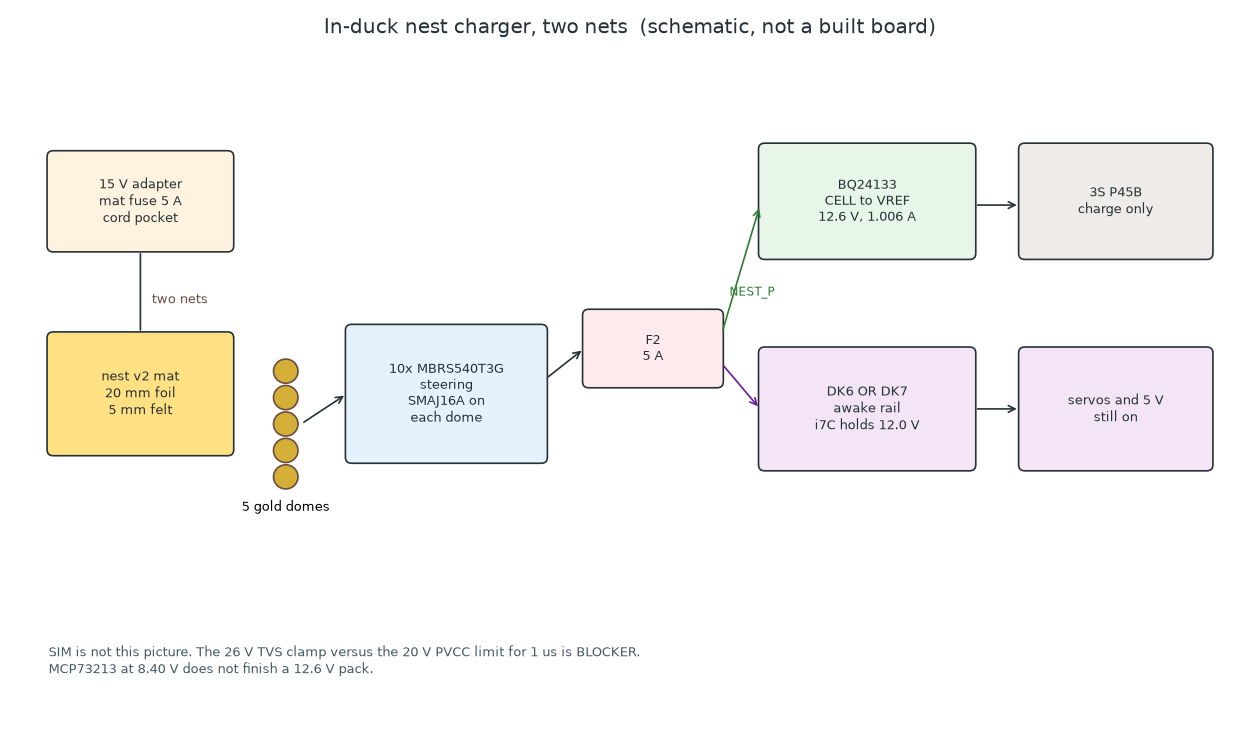
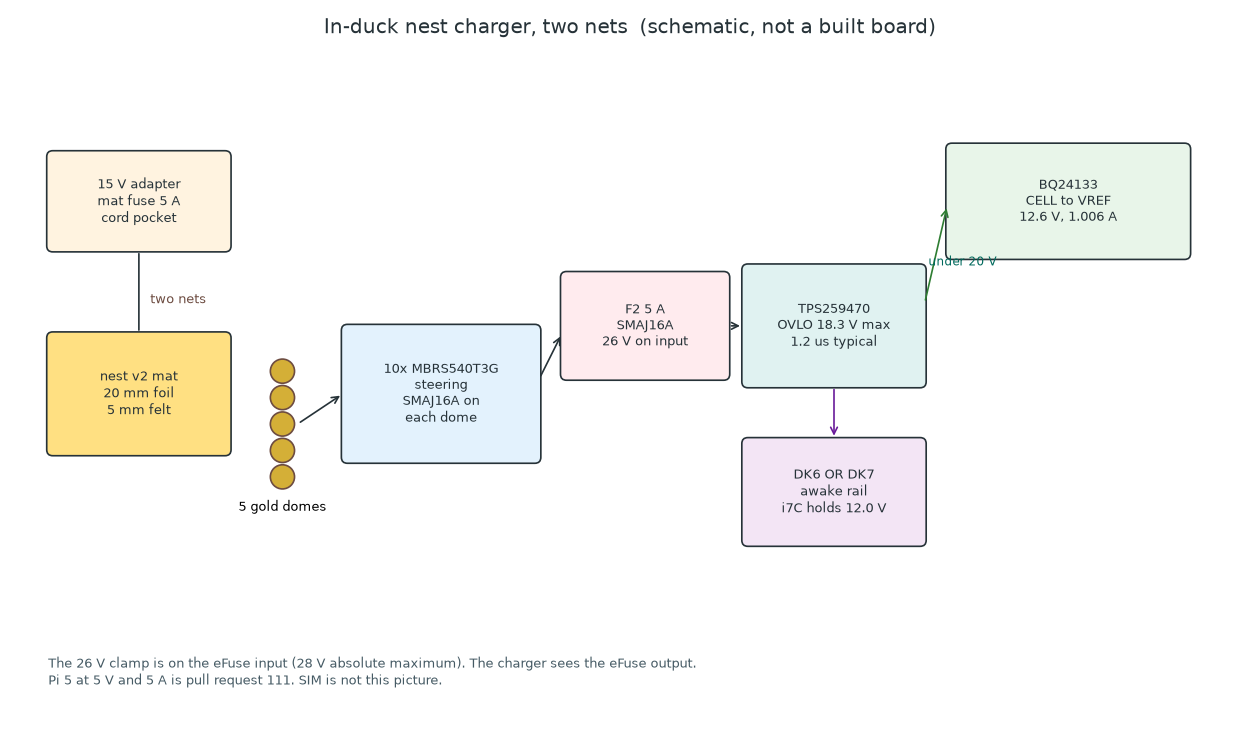
Fix the dome scale, the diode heat, and the 26 V clamp.
The viewer applies the URDF mesh scale before converting to millimetres, so a 3 mm dome stays 3 mm. The docked thermal sit now includes the two steering diodes. A TPS259470 eFuse sits between the SMAJ16A and the charger, and its OVLO trip stays under 20 V.

diff --git a/altaay_lab/twin/thermal/nest_heat.py b/altaay_lab/twin/thermal/nest_heat.py
@@ -31,6 +31,9 @@ I_IDLE = 0.021
 I_CHG = 1.006
 ETA_CHG = 0.929          # chart read, BQ24133_HEAT.md Figure 10-4
 ETA_I7C = 0.94           # cited low end, POWER.md section 12
+ETA_5V = 0.94            # cited low end of the D30V30F5 band used in AWAKE_LOAD.md
+NEST_V = 15.0
+DIODE_VF = 0.50          # cited max at 5 A, MBRS540T3/D. Upper bound at a lower current.
 V_PACK = 12.6
 # Loss is Vbat * I * (1/eta - 1). Calc only. The 1.00 A row in the heat note is 0.963 W.
 P_CHG = V_PACK * I_CHG * (1.0 / ETA_CHG - 1.0)
@@ -48,13 +51,25 @@ def idle_servo():
     return dict(P_cu25=z, P_board=z, P_fric=z.copy(), P_idle=np.full(14, p), i2=z)
 
 
+def nest_amps(p5):
+    """Current through one plus diode and one return diode. Calc only."""
+    i_chg = V_PACK * I_CHG / ETA_CHG / NEST_V
+    i_servo = (14 * I_IDLE * V_BUS) / ETA_I7C / NEST_V
+    i_5 = p5 / ETA_5V / NEST_V
+    return i_chg + i_servo + i_5
+
+
 def trunk(c):
     p_servo = 14 * I_IDLE * V_BUS
     bec_loss = p_servo * (1.0 / ETA_I7C - 1.0)
     i = I_CHG
+    i_nest = nest_amps(c["P5V"])
+    # Two diodes conduct. 0.50 V is the 5 A maximum, so this is an upper bound at the lower current.
+    p_diodes = 2.0 * i_nest * DIODE_VF
     return dict(cells=3 * i * i * TT.PARAMS["R_cell"], holder=i * i * c["R_holder"], bms=i * i * c["R_bms"],
                 fuse=i * i * TT.PARAMS["R_fuse"], xt30=i * i * TT.PARAMS["R_xt30"], switch=0.0,
-                wires=i * i * TT.PARAMS["R_wires"], bec=bec_loss, bec_leads=0.0, logic=0.15, charger=P_CHG)
+                wires=i * i * TT.PARAMS["R_wires"], bec=bec_loss, bec_leads=0.0, logic=0.15, charger=P_CHG,
+                diodes=p_diodes)
 
 
 def run(corner, Ta, hours=6.0):
@@ -64,7 +79,9 @@ def run(corner, Ta, hours=6.0):
     r = TT.simulate(lambda t: key, heats, None, c, Ta, t_end=hours * 3600.0, dt=2.0, record=30.0)
     j = [TT.NAMES.index(n) for n in ("left_knee", "right_knee")]
     knee = float(r["Ts"][:, j].max())
+    i_nest = nest_amps(c["P5V"])
     return dict(corner=corner, room_C=Ta, charger_W=round(P_CHG, 3),
+                diode_W=round(2.0 * i_nest * DIODE_VF, 3), nest_A=round(i_nest, 3),
                 cell_C=round(float(r["cells"][-1]), 2),
                 trunk_air_C=round(float(r["trunk_air"][-1]), 2),
                 trunk_wall_C=round(float(r["trunk_wall"][-1]), 2),
@@ -91,13 +108,15 @@ def main():
       % (P_CHG, I_CHG, V_PACK, ETA_CHG))
     a("The 1.00 A chart row in BQ24133_HEAT.md is 0.963 W. This row uses the board's 1.006 A.")
     a("Servos idle at 12.0 V, torque off, rail on. Head heat is the corner P5V already in the thermal twin.")
+    a("Two steering diodes carry that nest current. Their heat uses the cited 0.50 V maximum, which is specified at 5 A, so it is an upper bound here.")
     a("Three cells. Nothing here was measured on a board.")
     a("")
-    a("| Corner | Room | Cells | Trunk air | Trunk wall | Knee reading | Head air |")
-    a("|---|---|---|---|---|---|---|")
+    a("| Corner | Room | Nest A | Diode W | Cells | Trunk air | Trunk wall | Knee reading | Head air |")
+    a("|---|---|---|---|---|---|---|---|---|")
     for r in rows:
-        a("| %s | %.0f C | %.2f C | %.2f C | %.2f C | %.2f C | %.2f C |" % (
-            r["corner"], r["room_C"], r["cell_C"], r["trunk_air_C"], r["trunk_wall_C"], r["knee_C"], r["head_air_C"]))
+        a("| %s | %.0f C | %.3f | %.3f | %.2f C | %.2f C | %.2f C | %.2f C | %.2f C |" % (
+            r["corner"], r["room_C"], r["nest_A"], r["diode_W"], r["cell_C"], r["trunk_air_C"],
+            r["trunk_wall_C"], r["knee_C"], r["head_air_C"]))
     a("")
     a("Hottest cell %.2f C against the cited 0 C to 60 C charge window. %s" % (
         hot["cell_C"], "Inside." if hot["cell_C"] < CELL_MAX else "Crosses."))
@@ -111,7 +130,7 @@ def main():
         "The bound stays under 120 C." if die_hi < TJ_REG else "The bound crosses 120 C."))
     a("")
     a("Felt temperature is not a node. BLOCKER. In-trunk theta of the package is not the 35.7 C/W board. BLOCKER for a confirmed junction.")
-    a("A 25 W Pi 5 is not in this head. The corner P5V is 3 W or 5 W. The board-seat change owns that load.")
+    a("A 25 W Pi 5 is not in this head. The corner P5V is 3 W or 5 W. The 5 V, 5 A supply is pull request 111, not this charger.")
     text = "\n".join(lines) + "\n"
     if "\u2014" in text or "\u2013" in text:
         raise SystemExit("dash")

diff --git a/altaay_lab/circuitry/draw_nest_charge.py b/altaay_lab/circuitry/draw_nest_charge.py
@@ -19,7 +19,7 @@ def box(ax, x, y, w, h, text, fc):
 
 def main():
     fig, ax = plt.subplots(figsize=(10.5, 6.2), dpi=120)
-    ax.set_xlim(0, 16)
+    ax.set_xlim(0, 16.2)
     ax.set_ylim(0, 9)
     ax.axis("off")
     ax.set_title("In-duck nest charger, two nets  (schematic, not a built board)", fontsize=12, color="#263238", pad=8)
@@ -32,19 +32,17 @@ def main():
     ax.text(3.5, 2.85, "5 gold domes", ha="center", fontsize=8)
     box(ax, 4.3, 3.5, 2.6, 1.8, "10x MBRS540T3G\nsteering\nSMAJ16A on\neach dome", "#e3f2fd")
     ax.annotate("", xy=(4.3, 4.4), xytext=(3.7, 4.0), arrowprops=dict(arrowstyle="->", color="#263238"))
-    box(ax, 7.4, 4.5, 1.8, 1.0, "F2\n5 A", "#ffebee")
-    ax.annotate("", xy=(7.4, 5.0), xytext=(6.9, 4.6), arrowprops=dict(arrowstyle="->", color="#263238"))
-    box(ax, 9.7, 6.2, 2.8, 1.5, "BQ24133\nCELL to VREF\n12.6 V, 1.006 A", "#e8f5e9")
-    box(ax, 9.7, 3.4, 2.8, 1.6, "DK6 OR DK7\nawake rail\ni7C holds 12.0 V", "#f3e5f5")
-    ax.annotate("", xy=(9.7, 6.9), xytext=(9.2, 5.2), arrowprops=dict(arrowstyle="->", color="#2e7d32"))
-    ax.annotate("", xy=(9.7, 4.2), xytext=(9.2, 4.8), arrowprops=dict(arrowstyle="->", color="#6a1b9a"))
-    ax.text(9.3, 5.7, "NEST_P", fontsize=7, color="#2e7d32")
-    box(ax, 13.1, 6.2, 2.5, 1.5, "3S P45B\ncharge only", "#efebe9")
-    box(ax, 13.1, 3.4, 2.5, 1.6, "servos and 5 V\nstill on", "#f3e5f5")
-    ax.annotate("", xy=(13.1, 6.9), xytext=(12.5, 6.9), arrowprops=dict(arrowstyle="->", color="#263238"))
-    ax.annotate("", xy=(13.1, 4.2), xytext=(12.5, 4.2), arrowprops=dict(arrowstyle="->", color="#263238"))
-    ax.text(0.4, 0.7, "SIM is not this picture. The 26 V TVS clamp versus the 20 V PVCC limit for 1 us is BLOCKER.\n"
-            "MCP73213 at 8.40 V does not finish a 12.6 V pack.",
+    box(ax, 7.2, 4.6, 2.2, 1.4, "F2 5 A\nSMAJ16A\n26 V on input", "#ffebee")
+    ax.annotate("", xy=(7.2, 5.2), xytext=(6.9, 4.6), arrowprops=dict(arrowstyle="->", color="#263238"))
+    box(ax, 9.6, 4.5, 2.4, 1.6, "TPS259470\nOVLO 18.3 V max\n1.2 us typical", "#e0f2f1")
+    ax.annotate("", xy=(9.6, 5.3), xytext=(9.4, 5.3), arrowprops=dict(arrowstyle="->", color="#263238"))
+    box(ax, 12.3, 6.2, 3.2, 1.5, "BQ24133\nCELL to VREF\n12.6 V, 1.006 A", "#e8f5e9")
+    box(ax, 9.6, 2.4, 2.4, 1.4, "DK6 OR DK7\nawake rail\ni7C holds 12.0 V", "#f3e5f5")
+    ax.annotate("", xy=(12.3, 6.9), xytext=(12.0, 5.6), arrowprops=dict(arrowstyle="->", color="#2e7d32"))
+    ax.annotate("", xy=(10.8, 3.8), xytext=(10.8, 4.5), arrowprops=dict(arrowstyle="->", color="#6a1b9a"))
+    ax.text(12.05, 6.1, "under 20 V", fontsize=7, color="#00695c")
+    ax.text(0.4, 0.55, "The 26 V clamp is on the eFuse input (28 V absolute maximum). The charger sees the eFuse output.\n"
+            "Pi 5 at 5 V and 5 A is pull request 111. SIM is not this picture.",
             fontsize=8, color="#455a64")
     fig.tight_layout()
     fig.savefig(OUT, dpi=120)

diff --git a/altaay_lab/circuitry/check_nest_charge.py b/altaay_lab/circuitry/check_nest_charge.py
@@ -173,12 +173,26 @@ def main():
         w = wired("DP%d.K" % i, "F2.IN")
         check("dome %d cathode meets the fuse" % i, w is not None and w["net"] == "NEST_PRE", str(w))
 
-    check("fuse feeds the charger", wired("F2.OUT", "CHG.VIN") is not None, "F2 to CHG")
-    check("fuse feeds the awake diode", wired("F2.OUT", "DK6.VIN") is not None, "F2 to DK6")
+    check("fuse feeds the eFuse input", wired("F2.OUT", "OVP.IN") is not None, "F2 to OVP")
+    check("eFuse output feeds the charger", wired("OVP.OUT", "CHG.VIN") is not None, "OVP to CHG")
+    check("eFuse output feeds the awake diode", wired("OVP.OUT", "DK6.VIN") is not None, "OVP to DK6")
+    check("clamp diode is on the eFuse input", wired("EB.K", "OVP.IN") is not None, "EB")
+    check("clamp diode is not on the charger pin", wired("EB.K", "CHG.VIN") is None, "EB not on CHG")
     check("awake diode still joins the pack diode at the switch",
           wired("DK6.VOUT", "SW1.VIN") is not None and wired("DK7.VOUT", "SW1.VIN") is not None,
           "DK6 and DK7")
-    check("bus TVS is on the fused nest", wired("EB.K", "F2.OUT") is not None, "EB")
+    # SLVSFC9C: VOV rising 1.183 to 1.223 V, typical 1.20 V. Divider 140k / 10.0k.
+    rov_top, rov_bot = 140e3, 10.0e3
+    gain = (rov_top + rov_bot) / rov_bot
+    trip_typ = 1.20 * gain
+    trip_hi = 1.223 * gain
+    trip_lo = 1.183 * gain
+    check("OVLO typical trip is 18.00 V", abs(trip_typ - 18.0) < 0.01, "%.3f V" % trip_typ)
+    check("OVLO high trip is under 20 V", trip_hi < 20.0, "%.3f V" % trip_hi)
+    check("OVLO low trip is above the 16 V standoff", trip_lo > TVS_STANDOFF, "%.3f V" % trip_lo)
+    check("26 V clamp is under the eFuse 28 V absolute maximum", TVS_CLAMP < 28.0, "%.1f V" % TVS_CLAMP)
+    # 750 ohm row: ILIM minimum 3.96 A (cited table).
+    check("eFuse limit minimum covers the dome current", 3.96 >= cur["total"], "3.96 A vs %.3f A" % cur["total"])
 
     rail = net["domains"]["RAIL_9V0_15V0"]
     check("rail covers the pack and the nest",
@@ -192,8 +206,8 @@ def main():
     print("charge input %.3f A, servo idle %.3f A, Pi 5 branch %.3f A, total %.3f A (calc only)"
           % (cur["charge"], cur["servo"], cur["pi5"], cur["total"]))
     print("diode heat upper bound %.3f W on the 700 mm2 pad, rise %.1f C (calc only)" % (heat, rise_pad))
-    print("TVS clamp %.1f V is over the PVCC %.0f V absolute maximum. The 1 us before the ACFET opens is BLOCKER."
-          % (TVS_CLAMP, PVCC_ABS))
+    print("Clamp %.1f V is on the eFuse input (absolute maximum 28 V). OVLO high trip %.3f V is under the PVCC %.0f V absolute maximum. Response 1.2 us typical (cited, SLVSFC9C)."
+          % (TVS_CLAMP, 1.223 * 15.0, PVCC_ABS))
     print("cell charge window %.0f C to %.0f C (cited). Felt grade and contact ohms stay BLOCKER."
           % (CELL_CHG_MIN_C, CELL_CHG_MAX_C))
     if err:

diff --git a/altaay_lab/viewer/make_viewer_data.py b/altaay_lab/viewer/make_viewer_data.py
@@ -764,8 +764,18 @@ def place_sleeve(j, netlist, E3, runs_of, od_of):
 
 
 # ---------------------------------------------------------------------------------------------- geometry
-def load_mesh(path, to_mm):
+def load_mesh(path, to_mm, scale=None):
+    """Load a mesh. `scale` is the URDF visual scale. `to_mm` then converts metres to the viewer.
+
+    A millimetre STL with scale 0.001 is 1.5 mm across after both steps, not 1.5 m and not 3000 mm.
+    """
     m = trimesh.load(path, force="mesh")
+    if scale is not None:
+        s = np.asarray(scale, float).reshape(-1)
+        if s.size == 1:
+            s = np.repeat(s, 3)
+        if s.size == 3 and np.any(np.abs(s - 1.0) > 1e-12):
+            m.apply_scale(s)
     if to_mm:
         m.apply_scale(1000.0)
     return m
@@ -1086,7 +1096,12 @@ def main():
             T = Tl @ (v.origin if v.origin is not None else np.eye(4))
             T = T.copy()
             T[:3, 3] *= 1000.0
-            inst.append(dict(link=ln, urdf=fn, T=T, src="urdf"))
+            raw_scale = v.geometry.mesh.scale
+            if raw_scale is None:
+                mesh_scale = None
+            else:
+                mesh_scale = [float(x) for x in np.asarray(raw_scale, float).reshape(-1)]
+            inst.append(dict(link=ln, urdf=fn, T=T, src="urdf", scale=mesh_scale))
     n_urdf = len(inst)
     # cross-check with the audit's assembly (sites.json instance indices refer to it)
     asm_path = os.path.join(AUDIT, "assembly.json")
@@ -1152,8 +1167,14 @@ def main():
                          printed=True, mirrored=bool(seen[stem] == 2)))
         mesh_src[stem] = (os.path.join(PRINT_DIR, stem + ".stl"), False)
 
-    # load source meshes once
-    src = {k: load_mesh(p, mm) for k, (p, mm) in mesh_src.items()}
+    # load source meshes once. URDF scale is applied, then metres become millimetres.
+    src = {}
+    for i in inst:
+        key = i["key"]
+        if key in src:
+            continue
+        path, to_mm = mesh_src[key]
+        src[key] = load_mesh(path, to_mm, i.get("scale"))
     # D44 (V1 track 9): the 2S1P Molicel P45B pack in the grown bay replaces the URDF's 18650 cells and holder:
     # 21.4 x 70.0 mm cells on their axes (trunk frame x -133.1, y -9.35 and +12.2, z 31.5) and the pack's two nickel strips
     if "cell" in src:

diff --git a/altaay_lab/circuitry/NEST_CHARGE.md b/altaay_lab/circuitry/NEST_CHARGE.md
@@ -12,7 +12,7 @@ The mat is nest_v2: 20 mm foil, 5 mm felt, sun 190 mm from the wall. The duck to
 
 Each dome has two onsemi MBRS540T3G Schottky diodes (cited, MBRS540T3/D Rev. 13: 40 V, 5 A average, 0.50 V max at 5 A and 25 C). One anode is the dome and the cathode is the nest plus, so a dome on a plus stripe feeds the duck. One anode is ground and the cathode is the dome, so a dome on a minus stripe is the return. Ten diodes. The mat still has only two conductors, plus and minus.
 
-After the five plus cathodes, a 5 A fuse (the existing F2, Littelfuse 0287005.PXCN) feeds two branches. One is the BQ24133 input, before that board's adapter sense resistor, so the charger measures only the pack. The other is DK6, the ideal diode that ORs the nest with the pack at the 2815. The i7C holds the servos at 12.0 V from either source (cited input 9 V to 36 V). The 5 V regulator sits on that same node. A later 5 A part for a Pi 5 can replace it without moving the nest. The present D30V30F5 graph is about 3.8 A, not 5 A. That 5 A output is BLOCKER until the board-seat change lands. The nest wire is already sized for it.
+After the five plus cathodes, a 5 A fuse (the existing F2, Littelfuse 0287005.PXCN) feeds two branches. One is the BQ24133 input, before that board's adapter sense resistor, so the charger measures only the pack. The other is DK6, the ideal diode that ORs the nest with the pack at the 2815. The i7C holds the servos at 12.0 V from either source (cited input 9 V to 36 V). The 5 V regulator sits on that same node. A later 5 A part for a Pi 5 can replace it without moving the nest. The present D30V30F5 graph is about 3.8 A, not 5 A. A 5 A output is pull request 111. This note does not change that regulator. The nest wire is already sized for the input current.
 
 ## What the duck draws while docked and awake
 
@@ -32,16 +32,16 @@ The diode's minimum pad is 111 C/W and would put this bound over 150 C. The boar
 ## Protection
 
 - Reverse polarity. A stripe that is minus does not feed the charger plus. The return diode blocks a plus dome from shorting to ground. A reversed adapter only swaps the stripes, and the same diodes still sort them.
-- ESD on the domes. One Littelfuse SMAJ16A per dome, cathode on the dome, anode on ground, plus one on the fused nest. Standoff 16.0 V, so 15.0 V does not conduct. Clamp 26.0 V at 15.4 A (cited, NEST3.md). The SMAJ series states IEC 61000-4-2 of 30 kV contact and 30 kV air (cited, CHARGER_BOARD.md, from the series table).
+- ESD on the domes. One Littelfuse SMAJ16A per dome, cathode on the dome, anode on ground. Standoff 16.0 V, so 15.0 V does not conduct. Clamp 26.0 V at 15.4 A (cited, NEST3.md). The SMAJ series response is typically under 1.0 ps from 0 V to breakdown for a unidirectional part (cited, Littelfuse SMAJ page). IEC 61000-4-2 is 30 kV contact and 30 kV air (cited, CHARGER_BOARD.md, from the series table).
+- The charger pin does not sit on that clamp. A TI TPS259470ARPW eFuse (cited, SLVSFC9C) is between the clamp and the BQ24133. Its IN absolute maximum is 28 V, so 26.0 V is inside that rating. Its OUT is the charger input and the awake feed.
+- OVLO uses 140 kOhm over 10.0 kOhm. The rising threshold is 1.183 V to 1.223 V, typical 1.20 V (cited). The trip is 18.00 V typical and 18.345 V at the high threshold (calc only). Both are under the 20 V PVCC absolute maximum. The low trip is 17.745 V, above the 16.0 V standoff, so a nest inside the window does not trip. The sheet's OVLO response is 1.2 us typical. That is the disconnect in front of the charger. The charger's own 1 us deglitch is no longer what stands between PVCC and the 26 V clamp.
+- Current limit is the cited 750 ohm row: 3.96 A minimum, 4.452 A typical, 4.84 A maximum. 2.933 A is under 3.96 A.
 - Short on the mat. A second 0287005.PXCN sits in the cord pocket, in series with the adapter, ahead of the stripes. A coin across a 5 mm gap opens that fuse. The duck fuse is the second opening, after the diodes.
-
-The 26.0 V clamp is over the BQ24133 PVCC absolute maximum of 20 V (cited). The ACFET opens about 1 us after OVPSET passes 1.6 V (cited). Nothing in the sheet shows PVCC staying under 20 V during that microsecond if the contact is already at 26 V. That microsecond is BLOCKER.
 
 ## What stays open
 
 - Contact resistance of gold on foil, with dust. BLOCKER.
 - Felt grade, and whether the 0.9 mm dome dents the top sheet. BLOCKER.
-- The 1 us PVCC gap above. BLOCKER.
+- The 5 V regulator versus a 5 A Pi. That supply is pull request 111. This charger does not change it.
 - The signature that would keep the mat dark until the duck sits. The pocket fuse opens a short. It does not keep the stripes dark. BLOCKER.
-- The D30V30F5 does not publish 5 A. BLOCKER for a Pi 5 at the full 5 A supply rating. The rail node is ready for the replacement.
 - In-trunk theta of the BQ24133 is not the 35.7 C/W JEDEC number. The thermal run is twin/thermal/NEST_HEAT.md.

diff --git a/altaay_lab/twin/thermal/NEST_HEAT.md b/altaay_lab/twin/thermal/NEST_HEAT.md
@@ -3,20 +3,21 @@
 Sim pass only for the shell. The charger watts are calc only: 0.969 W at 1.006 A into 12.6 V, efficiency 0.929.
 The 1.00 A chart row in BQ24133_HEAT.md is 0.963 W. This row uses the board's 1.006 A.
 Servos idle at 12.0 V, torque off, rail on. Head heat is the corner P5V already in the thermal twin.
+Two steering diodes carry that nest current. Their heat uses the cited 0.50 V maximum, which is specified at 5 A, so it is an upper bound here.
 Three cells. Nothing here was measured on a board.
 
-| Corner | Room | Cells | Trunk air | Trunk wall | Knee reading | Head air |
-|---|---|---|---|---|---|---|
-| central | 25 C | 30.10 C | 31.10 C | 27.73 C | 29.07 C | 33.41 C |
-| central | 32 C | 36.92 C | 38.01 C | 34.63 C | 35.94 C | 40.31 C |
-| high | 25 C | 31.28 C | 33.44 C | 28.11 C | 29.45 C | 40.93 C |
-| high | 32 C | 38.06 C | 40.35 C | 35.01 C | 36.31 C | 47.79 C |
+| Corner | Room | Nest A | Diode W | Cells | Trunk air | Trunk wall | Knee reading | Head air |
+|---|---|---|---|---|---|---|---|---|
+| central | 25 C | 1.373 | 1.373 | 32.41 C | 34.28 C | 29.26 C | 29.07 C | 33.41 C |
+| central | 32 C | 1.373 | 1.373 | 39.17 C | 41.15 C | 36.11 C | 35.94 C | 40.31 C |
+| high | 25 C | 1.514 | 1.514 | 34.40 C | 38.22 C | 30.04 C | 29.45 C | 40.93 C |
+| high | 32 C | 1.514 | 1.514 | 41.10 C | 45.09 C | 36.89 C | 36.31 C | 47.79 C |
 
-Hottest cell 38.06 C against the cited 0 C to 60 C charge window. Inside.
+Hottest cell 41.10 C against the cited 0 C to 60 C charge window. Inside.
 Hottest knee reading 36.31 C against the cited -20 C to 60 C operating range. Inside.
-Hottest trunk wall 35.01 C against the cited PLA heat-deflection low end of 49 C. Inside.
-Die upper bound at the hottest trunk air: 40.4 C plus 35.7 C/W times 0.969 W = 74.9 C. Thermal regulation is 120 C and shutdown is 150 C (cited).
+Hottest trunk wall 36.89 C against the cited PLA heat-deflection low end of 49 C. Inside.
+Die upper bound at the hottest trunk air: 45.1 C plus 35.7 C/W times 0.969 W = 79.7 C. Thermal regulation is 120 C and shutdown is 150 C (cited).
 That bound puts every converter watt in the package, which the sheet does not. It is an upper bound, not a measured junction. The bound stays under 120 C.
 
 Felt temperature is not a node. BLOCKER. In-trunk theta of the package is not the 35.7 C/W board. BLOCKER for a confirmed junction.
-A 25 W Pi 5 is not in this head. The corner P5V is 3 W or 5 W. The board-seat change owns that load.
+A 25 W Pi 5 is not in this head. The corner P5V is 3 W or 5 W. The 5 V, 5 A supply is pull request 111, not this charger.

diff --git a/altaay_lab/PROPOSED_BOM_CHANGES.md b/altaay_lab/PROPOSED_BOM_CHANGES.md
@@ -59,7 +59,11 @@ Do not edit BOM.md from this table. Nothing is bought. Prices were not opened fo
 | Proposed line | Part | Qty | Why |
 |---|---|---|---|
 | nest diode | onsemi MBRS540T3G | 10 | Five plus diodes and five return diodes. 40 V, 5 A, 0.50 V max at 5 A (cited, MBRS540T3/D Rev. 13). One dome may carry 2.933 A (calc only). |
-| nest TVS | Littelfuse SMAJ16A | 6 | One on each dome and one on the fused nest. Standoff 16.0 V (cited, NEST3.md). |
+| nest TVS | Littelfuse SMAJ16A | 6 | One on each dome and one on the eFuse input. Standoff 16.0 V, clamp 26.0 V (cited, NEST3.md). Not on the charger pin. |
+| nest eFuse | TI TPS259470ARPW | 1 | OVLO trip 18.00 V typical, 18.345 V at the high threshold (calc only from the cited 1.183 V to 1.223 V). Response 1.2 us typical (cited, SLVSFC9C). IN absolute maximum 28 V covers the 26.0 V clamp. |
+| OVLO divider | 140 kOhm and 10.0 kOhm, 1 percent | 1 each | Sets the 18.00 V trip. |
+| UVLO divider | 90.9 kOhm and 10.0 kOhm, 1 percent | 1 each | Keeps the eFuse on at the 15.0 V nest. |
+| ILIM resistor | 750 ohm, 1 percent | 1 | Cited row: 3.96 A minimum. |
 | mat fuse | Littelfuse 0287005.PXCN, 5 A ATO | 1 | In the cord pocket, ahead of the stripes, so a coin short opens it. The duck already has F2 of the same part. |
 | diode copper | 700 mm2, 2 ounce pad under each MBRS540 | 10 pads | The minimum pad is 111 C/W and crosses 150 C on the VF bound. The sheet's 700 mm2 pad is 64 C/W (cited). |
 

diff --git a/altaay_lab/audit/ERC_REPORT.md b/altaay_lab/audit/ERC_REPORT.md
@@ -1,7 +1,7 @@
 # ERC report (generated by audit/erc.py from wiring/netlist.yaml)
 
-Components 110, pins 387, cables 71 (4 removed), wires 226 (12 superseded, not joined).
-Findings: 0 ERROR, 0 WARN, 8 INFO.
+Components 116, pins 407, cables 71 (4 removed), wires 237 (12 superseded, not joined).
+Findings: 0 ERROR, 0 WARN, 9 INFO.
 
 Ampacity limits: chassis wiring, PowerStream wire gauge table (powerstream.com/Wire_Size.htm). Kit servo cables assumed 26 AWG (gauge not published).
 
@@ -17,8 +17,8 @@ No findings.
 ## shorts (0)
 No findings.
 
-## domains (0)
-No findings.
+## domains (1)
+- INFO: cable ND1: F2.OUT pin domain NEST_15V on net NEST_CLAMP (domain CLAMP_0V_26V)
 
 ## ampacity (8)
 - INFO: cable D1: gauge 'USB 2.0 cable' not parsed (PI.USB -> U2.USB)
@@ -56,4 +56,4 @@ No findings.
 | 12.3 | P10 | VSW.S | U1.IN+ | 16 | 150 | 6.23 |
 | 12.3 | P10 | G.S | U1.IN- | 16 | 150 | 6.23 |
 
-Continuity checklist for TEST_PLAN.md section 2: audit/continuity_checklist.csv (226 rows).
+Continuity checklist for TEST_PLAN.md section 2: audit/continuity_checklist.csv (237 rows).
